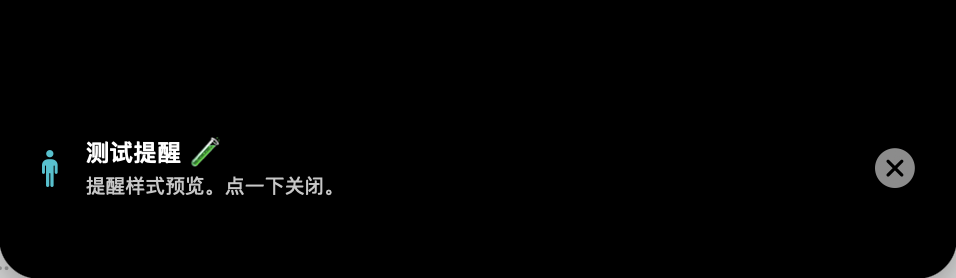
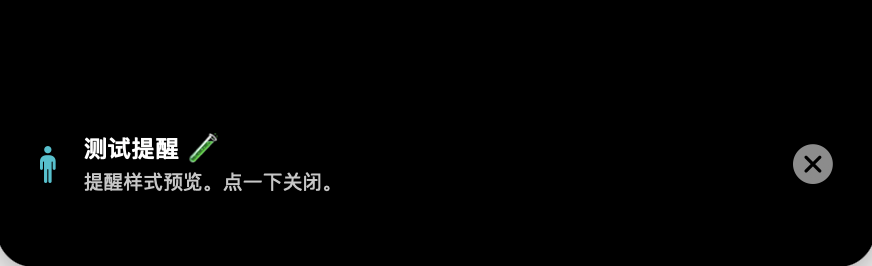
v3.3.2: 灵动岛与刘海同高不再挡界面，内容分居两侧耳朵（左图标右分钟）

diff --git a/Sources/NotchIsland.swift b/Sources/NotchIsland.swift
@@ -31,17 +31,17 @@ class IslandModel: ObservableObject {
     var onTapPill: () -> Void = {}
     var onDismissReminder: () -> Void = {}
 
-    // 刘海下沿深度（内容区从这里开始）
+    // 刘海下沿深度（胶囊高度与刘海齐平，不往下凸）
     var notchDepth: CGFloat = 38
 
     var size: NSSize {
         switch mode {
-        case .pill:      return NSSize(width: 240, height: notchDepth + 26)
-        case .dashboard: return NSSize(width: 400, height: notchDepth + 138)
-        case .reminder:  return NSSize(width: 480, height: notchDepth + 102)
+        case .pill:      return NSSize(width: 340, height: notchDepth)          // 与刘海同高，内容在两侧耳朵
+        case .dashboard: return NSSize(width: 400, height: notchDepth + 122)
+        case .reminder:  return NSSize(width: 440, height: notchDepth + 96)
         }
     }
-    var bottomRadius: CGFloat { mode == .pill ? 14 : 22 }
+    var bottomRadius: CGFloat { mode == .pill ? 10 : 20 }
 }
 
 struct IslandView: View {
@@ -64,23 +64,24 @@ struct IslandView: View {
         .clipShape(UnevenRoundedRectangle(bottomLeadingRadius: model.bottomRadius,
                                           bottomTrailingRadius: model.bottomRadius,
                                           style: .continuous))
-        .shadow(color: .black.opacity(0.45), radius: 14, x: 0, y: 8)
+        .shadow(color: .black.opacity(0.35), radius: 10, x: 0, y: 4)
     }
 
-    // 胶囊：图标 + 分钟数
+    // 胶囊：左耳朵图标 + 右耳朵分钟数（中间被物理刘海挡住，正好空着）
     var pillContent: some View {
-        HStack(spacing: 7) {
+        HStack(spacing: 0) {
             Image(systemName: model.pillIcon)
                 .font(.system(size: 13, weight: .semibold))
                 .foregroundStyle(model.pillTint)
+            Spacer(minLength: 0)
             if !model.pillText.isEmpty {
                 Text(model.pillText)
                     .font(.system(size: 13, weight: .medium).monospacedDigit())
                     .foregroundStyle(.white)
             }
         }
-        .frame(height: 26)
-        .frame(maxWidth: .infinity)
+        .padding(.horizontal, 22)
+        .frame(maxWidth: .infinity, maxHeight: .infinity)
         .contentShape(Rectangle())
         .onTapGesture { model.onTapPill() }
     }
@@ -106,8 +107,8 @@ struct IslandView: View {
         }
         .padding(.horizontal, 20)
         .padding(.top, 6)
-        .padding(.bottom, 16)
-        .frame(height: 138)
+        .padding(.bottom, 14)
+        .frame(height: 122)
         .frame(maxWidth: .infinity)
         .contentShape(Rectangle())
         .onTapGesture { model.onTapPill() }   // 再点一下收起
@@ -139,8 +140,8 @@ struct IslandView: View {
         }
         .padding(.horizontal, 20)
         .padding(.top, 4)
-        .padding(.bottom, 14)
-        .frame(height: 102)
+        .padding(.bottom, 12)
+        .frame(height: 96)
         .frame(maxWidth: .infinity)
         .contentShape(Rectangle())
         .onTapGesture { model.onDismissReminder() }   // 点按也算确认

diff --git a/Sources/AppDelegate.swift b/Sources/AppDelegate.swift
@@ -332,7 +332,7 @@ class AppDelegate: NSObject, NSApplicationDelegate, NSMenuDelegate {
         } else {
             line3 = L.t("暂无待提醒事项", "No pending reminders")
         }
-        if sessionStart == nil { icon = "cup.and.saucer"; tint = .teal; text = "" }
+        if sessionStart == nil { icon = "cup.and.saucer"; tint = Color(white: 0.85); text = "" }
 
         island.update(icon: icon, text: text, tint: tint,
                       line1: line1, line2: line2, line3: line3)

diff --git a/CHANGELOG.md b/CHANGELOG.md
@@ -1,5 +1,11 @@
 # Changelog
 
+## v3.3.2 · 2026-10-13
+
+- 灵动岛改为与刘海同高，不再向下凸出遮挡程序界面；内容放在刘海两侧的「耳朵」上：左耳图标、右耳分钟数 / Island is now flush with the notch height and no longer covers app content; icon on the left ear, minutes on the right ear
+- 休息状态图标改为低调的白色 / Resting icon now understated white
+- 展开动画与圆角更贴合刘海曲线 / Expansion corners and animation tuned to match the notch
+
 ## v3.3.1 · 2026-10-13
 
 - 灵动岛与物理刘海融为一体：顶边贴死屏幕顶、纯黑、仅底部圆角、带柔和投影，内容显示在刘海下沿的可见区域 / Island now merges with the physical notch: flush top, pure black, bottom-only rounded corners, soft shadow; content sits below the notch edge
